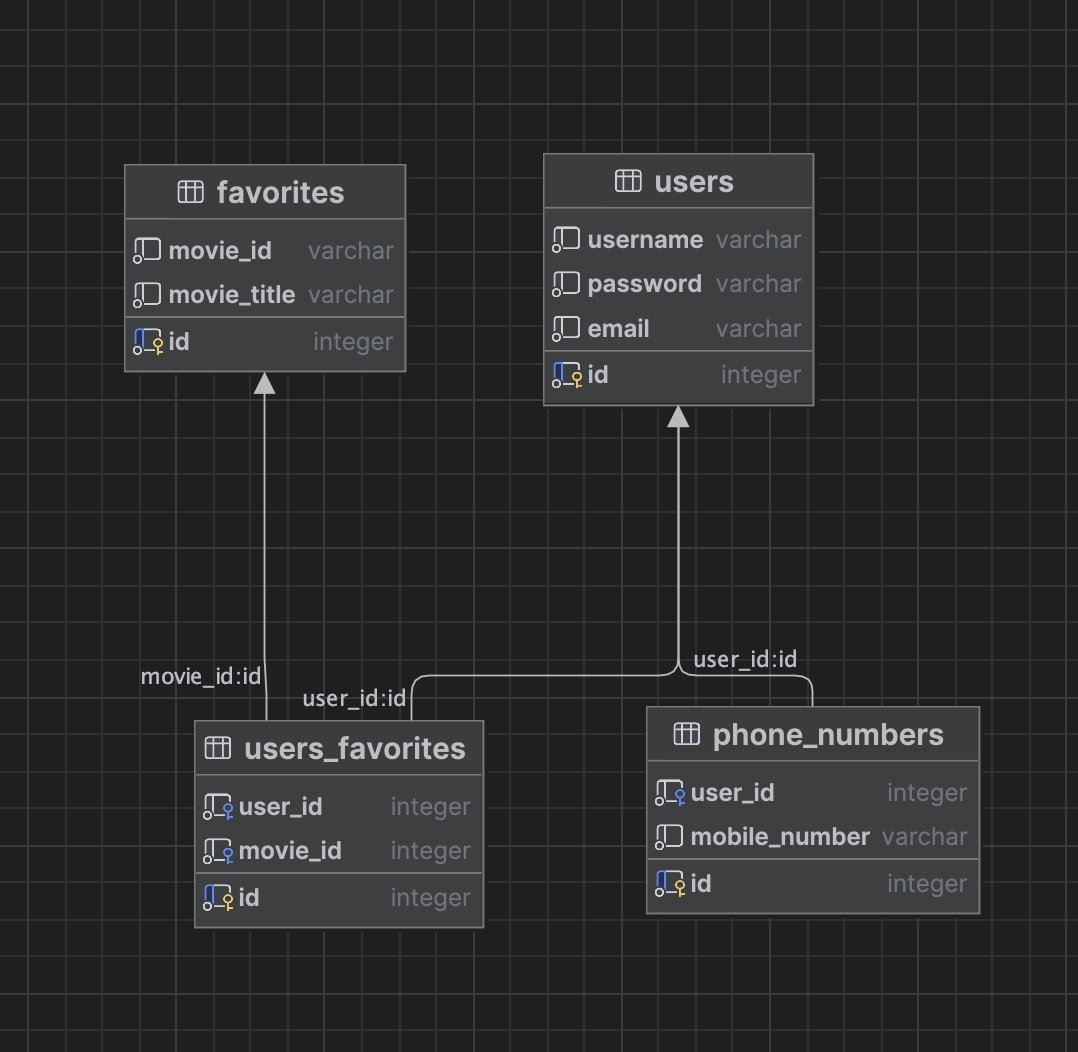
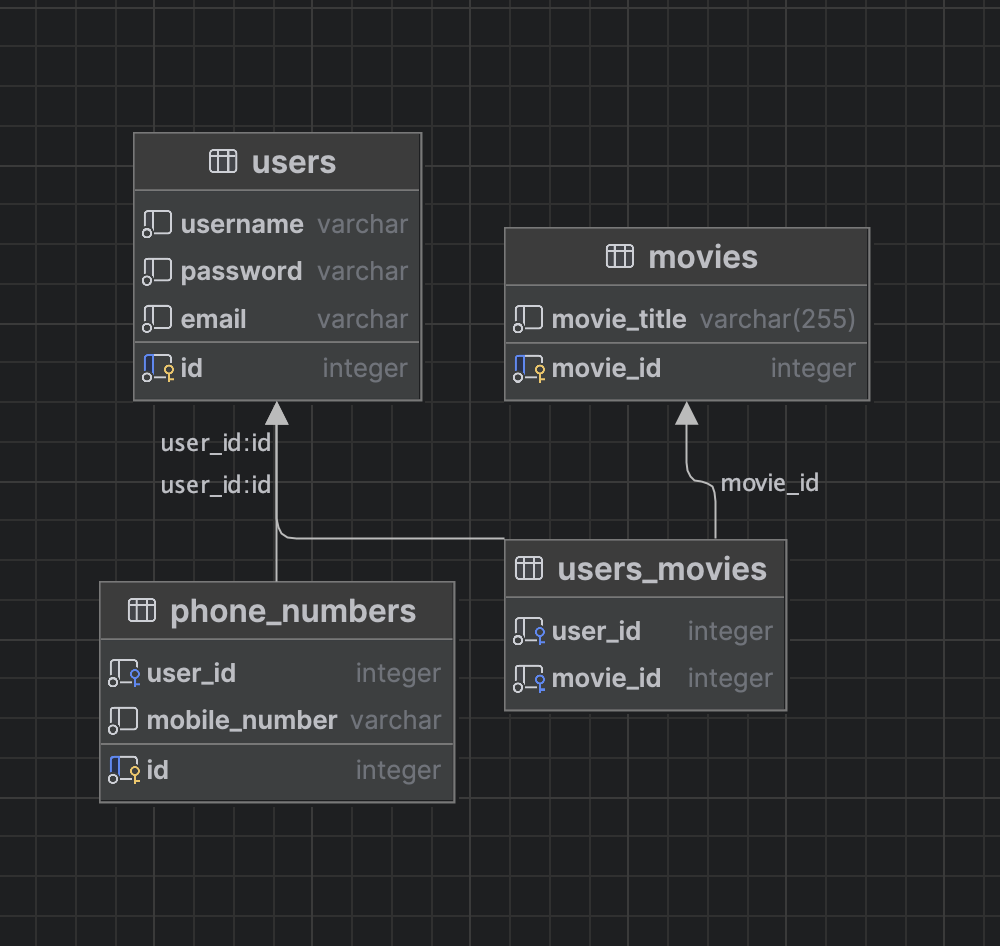
register User endpoint, db fixes

diff --git a/src/main/java/com/lulugyda/services/MovieServiceFacade.java b/src/main/java/com/lulugyda/services/MovieServiceFacade.java
@@ -5,6 +5,8 @@ import com.lulugyda.clients.models.responses.TmdbMovieDetailsResponse;
 import com.lulugyda.clients.models.responses.TmdbMovieListResponse;
 import com.lulugyda.clients.models.responses.TmdbMovieReviewersResponse;
 import com.lulugyda.mappers.TmdbMovieDetailsMapper;
+import com.lulugyda.models.entities.PhoneNumberEntity;
+import com.lulugyda.models.entities.UserEntity;
 import com.lulugyda.models.responses.MovieDetailsResponse;
 import com.lulugyda.models.responses.MovieListResponse;
 import com.lulugyda.repositories.PhoneNumbersCrudRepositoryFacade;
@@ -13,6 +15,9 @@ import com.lulugyda.repositories.*;
 import jakarta.inject.Singleton;
 import lombok.RequiredArgsConstructor;
 import lombok.extern.slf4j.Slf4j;
+
+import java.util.ArrayList;
+import java.util.Optional;
 
 @Slf4j
 @Singleton
@@ -51,10 +56,25 @@ public class MovieServiceFacade implements MovieService {
     }
 
     @Override
-    public void saveUserMovies(String userId) {
+    public void saveUserMovies(Integer userId) {
         moviesCrudRepositoryFacade.saveUserMovies(userId);
     }
 
+    @Override
+    public void registerUser(UserEntity userEntity) {
+        usersCrudRepositoryFacade.saveUser(userEntity);
+    }
 
+    @Override
+    public void addPhoneNumbers(ArrayList<PhoneNumberEntity> numbers, Integer userId) {
+        Optional<UserEntity> user = usersCrudRepositoryFacade.findUser(userId);
 
+        if (user.isPresent()) {
+            for (PhoneNumberEntity number : numbers) {
+                number.setUser(user.get());
+                System.out.println(number.getMobileNumber());
+                phoneNumbersCrudRepositoryFacade.savePhoneNumber(number);
+            }
+        }
+    }
 }

diff --git a/src/main/java/com/lulugyda/controllers/UsersController.java b/src/main/java/com/lulugyda/controllers/UsersController.java
@@ -1,0 +1,42 @@
+package com.lulugyda.controllers;
+
+import com.lulugyda.models.entities.PhoneNumberEntity;
+import com.lulugyda.models.entities.UserEntity;
+import com.lulugyda.services.MovieService;
+import io.micronaut.http.HttpResponse;
+import io.micronaut.http.annotation.Body;
+import io.micronaut.http.annotation.Controller;
+import io.micronaut.http.annotation.Header;
+import io.micronaut.http.annotation.Post;
+import io.micronaut.scheduling.TaskExecutors;
+import io.micronaut.scheduling.annotation.ExecuteOn;
+import io.micronaut.validation.Validated;
+import lombok.RequiredArgsConstructor;
+
+import java.util.ArrayList;
+
+import static com.lulugyda.utils.Constants.USER_ID;
+import static io.micronaut.http.MediaType.APPLICATION_JSON;
+
+@Controller("v1/users")
+@Validated
+@RequiredArgsConstructor
+public class UsersController {
+
+    private final MovieService movieService;
+    @Post(produces = APPLICATION_JSON)
+    @ExecuteOn(TaskExecutors.IO)
+    public HttpResponse<?> registerUser(@Body UserEntity user) {
+        movieService.registerUser(user);
+        return HttpResponse.ok();
+    }
+
+//    @Post(value = "/phone-numbers", produces = APPLICATION_JSON)
+//    @ExecuteOn(TaskExecutors.IO)
+//    public HttpResponse<?> addPhoneNumbers(@Body ArrayList<PhoneNumberEntity> numbers,
+//                                           @Header(USER_ID) Integer userId) {
+//       movieService.addPhoneNumbers(numbers,userId);
+//        return HttpResponse.ok();
+//    }
+
+}

diff --git a/src/main/java/com/lulugyda/models/entities/PhoneNumberEntity.java b/src/main/java/com/lulugyda/models/entities/PhoneNumberEntity.java
@@ -1,6 +1,7 @@
 package com.lulugyda.models.entities;
 
 import io.micronaut.core.annotation.Introspected;
+import io.micronaut.serde.annotation.SerdeImport;
 import lombok.AllArgsConstructor;
 import lombok.Builder;
 import lombok.Data;
@@ -18,12 +19,13 @@ import lombok.Setter;
 @AllArgsConstructor
 @NoArgsConstructor
 @Introspected
+@SerdeImport(PhoneNumberEntity.class)
 public class PhoneNumberEntity {
 
     @Id
-    @GeneratedValue(strategy = GenerationType.UUID)
+    @GeneratedValue(strategy = GenerationType.IDENTITY)
     @Column(name = "id", unique = true, nullable = false)
-    private String id;
+    private Integer id;
 
     @Column(name = "mobile_number")
     private String mobileNumber;

diff --git a/src/main/java/com/lulugyda/repositories/MoviesCrudRepositoryFacade.java b/src/main/java/com/lulugyda/repositories/MoviesCrudRepositoryFacade.java
@@ -22,12 +22,12 @@ public class MoviesCrudRepositoryFacade {
 
     private final UsersCrudRepositoryFacade usersCrudRepositoryFacade;
 
-    public void saveUserMovies(String userId) {
+    public void saveUserMovies(Integer userId) {
         try {
             log.info("saveUserMovies for user id {}", userId);
 
-            MovieEntity m1 = new MovieEntity("1", "t1", null);
-            MovieEntity m2 = new MovieEntity("2", "gydaamovie", null);
+            MovieEntity m1 = new MovieEntity(1, "t1", null);
+            MovieEntity m2 = new MovieEntity(2, "gydaamovie", null);
             List<MovieEntity> movies = Arrays.asList(m1, m2);
 
             List<MovieEntity> saveMovies = movies.stream()

diff --git a/src/main/java/com/lulugyda/services/MovieService.java b/src/main/java/com/lulugyda/services/MovieService.java
@@ -1,13 +1,21 @@
 package com.lulugyda.services;
 
+import com.lulugyda.models.entities.PhoneNumberEntity;
+import com.lulugyda.models.entities.UserEntity;
 import com.lulugyda.models.responses.MovieDetailsResponse;
 import com.lulugyda.models.responses.MovieListResponse;
+
+import java.util.ArrayList;
 
 public interface MovieService {
     MovieListResponse getMovieList(String page);
 
     MovieDetailsResponse getMovieDetails(String movieId);
 
-    void saveUserMovies(String userId);
+    void saveUserMovies(Integer userId);
+
+    void registerUser (UserEntity userEntity);
+
+    void addPhoneNumbers (ArrayList<PhoneNumberEntity> numbers, Integer userّId);
 
 }

diff --git a/src/main/java/com/lulugyda/models/entities/UserEntity.java b/src/main/java/com/lulugyda/models/entities/UserEntity.java
@@ -1,5 +1,6 @@
 package com.lulugyda.models.entities;
 
+import com.fasterxml.jackson.annotation.JsonIgnore;
 import io.micronaut.core.annotation.Introspected;
 import io.micronaut.serde.annotation.Serdeable;
 import jakarta.persistence.*;
@@ -26,9 +27,9 @@ import java.util.List;
 public class UserEntity {
 
     @Id
-    @GeneratedValue(strategy = GenerationType.UUID)
+    @GeneratedValue(strategy = GenerationType.IDENTITY)
     @Column(name = "id", unique = true, nullable = false)
-    private String id;
+    private Integer id;
 
     @Column(name = "username")
     private String username;

diff --git a/src/main/java/com/lulugyda/controllers/MovieController.java b/src/main/java/com/lulugyda/controllers/MovieController.java
@@ -25,7 +25,6 @@ import io.micronaut.http.HttpStatus;
 
 
 @Controller("v1/movies")
-@Slf4j
 @Validated
 @RequiredArgsConstructor
 public class MovieController {
@@ -67,7 +66,7 @@ public class MovieController {
 
     @Get(value = "/favourites", produces = APPLICATION_JSON)
     @ExecuteOn(TaskExecutors.IO)
-    public HttpResponse<?> saveUserMovies(@Header(USER_ID) String userId) {
+    public HttpResponse<?> saveUserMovies(@Header(USER_ID) Integer userId) {
         movieService.saveUserMovies(userId);
         return HttpResponse.ok();
     }

diff --git a/src/main/java/com/lulugyda/repositories/MoviesCrudRepository.java b/src/main/java/com/lulugyda/repositories/MoviesCrudRepository.java
@@ -2,8 +2,10 @@ package com.lulugyda.repositories;
 
 import com.lulugyda.models.entities.MovieEntity;
 import io.micronaut.data.annotation.Repository;
+import io.micronaut.data.jdbc.annotation.JdbcRepository;
+import io.micronaut.data.model.query.builder.sql.Dialect;
 import io.micronaut.data.repository.CrudRepository;
 
 @Repository
-public interface MoviesCrudRepository extends CrudRepository<MovieEntity, String> {
+public interface MoviesCrudRepository extends CrudRepository<MovieEntity, Integer> {
 }

diff --git a/src/main/java/com/lulugyda/repositories/PhoneNumbersCrudRepository.java b/src/main/java/com/lulugyda/repositories/PhoneNumbersCrudRepository.java
@@ -5,5 +5,5 @@ import io.micronaut.data.annotation.Repository;
 import io.micronaut.data.repository.CrudRepository;
 
 @Repository
-public interface PhoneNumbersCrudRepository  extends CrudRepository<PhoneNumberEntity, String> {
+public interface PhoneNumbersCrudRepository  extends CrudRepository<PhoneNumberEntity, Integer> {
 }

diff --git a/src/main/java/com/lulugyda/repositories/UsersMoviesCrudRepository.java b/src/main/java/com/lulugyda/repositories/UsersMoviesCrudRepository.java
@@ -5,5 +5,5 @@ import io.micronaut.data.annotation.Repository;
 import io.micronaut.data.repository.CrudRepository;
 
 @Repository
-public interface UsersMoviesCrudRepository extends CrudRepository<UserMoviesEntity, String> {
+public interface UsersMoviesCrudRepository extends CrudRepository<UserMoviesEntity, Integer> {
 }

diff --git a/src/main/java/com/lulugyda/repositories/UsersCrudRepository.java b/src/main/java/com/lulugyda/repositories/UsersCrudRepository.java
@@ -5,5 +5,5 @@ import io.micronaut.data.annotation.Repository;
 import io.micronaut.data.repository.CrudRepository;
 
 @Repository
-public interface UsersCrudRepository extends CrudRepository<UserEntity, String> {
+public interface UsersCrudRepository extends CrudRepository<UserEntity, Integer> {
 }

diff --git a/src/main/java/com/lulugyda/repositories/UsersCrudRepositoryFacade.java b/src/main/java/com/lulugyda/repositories/UsersCrudRepositoryFacade.java
@@ -27,7 +27,7 @@ public class UsersCrudRepositoryFacade {
         }
     }
 
-    public Optional<UserEntity> findUser(String userId) {
+    public Optional<UserEntity> findUser(Integer userId) {
         Optional<UserEntity> userEntity = Optional.empty();
 
         try {
